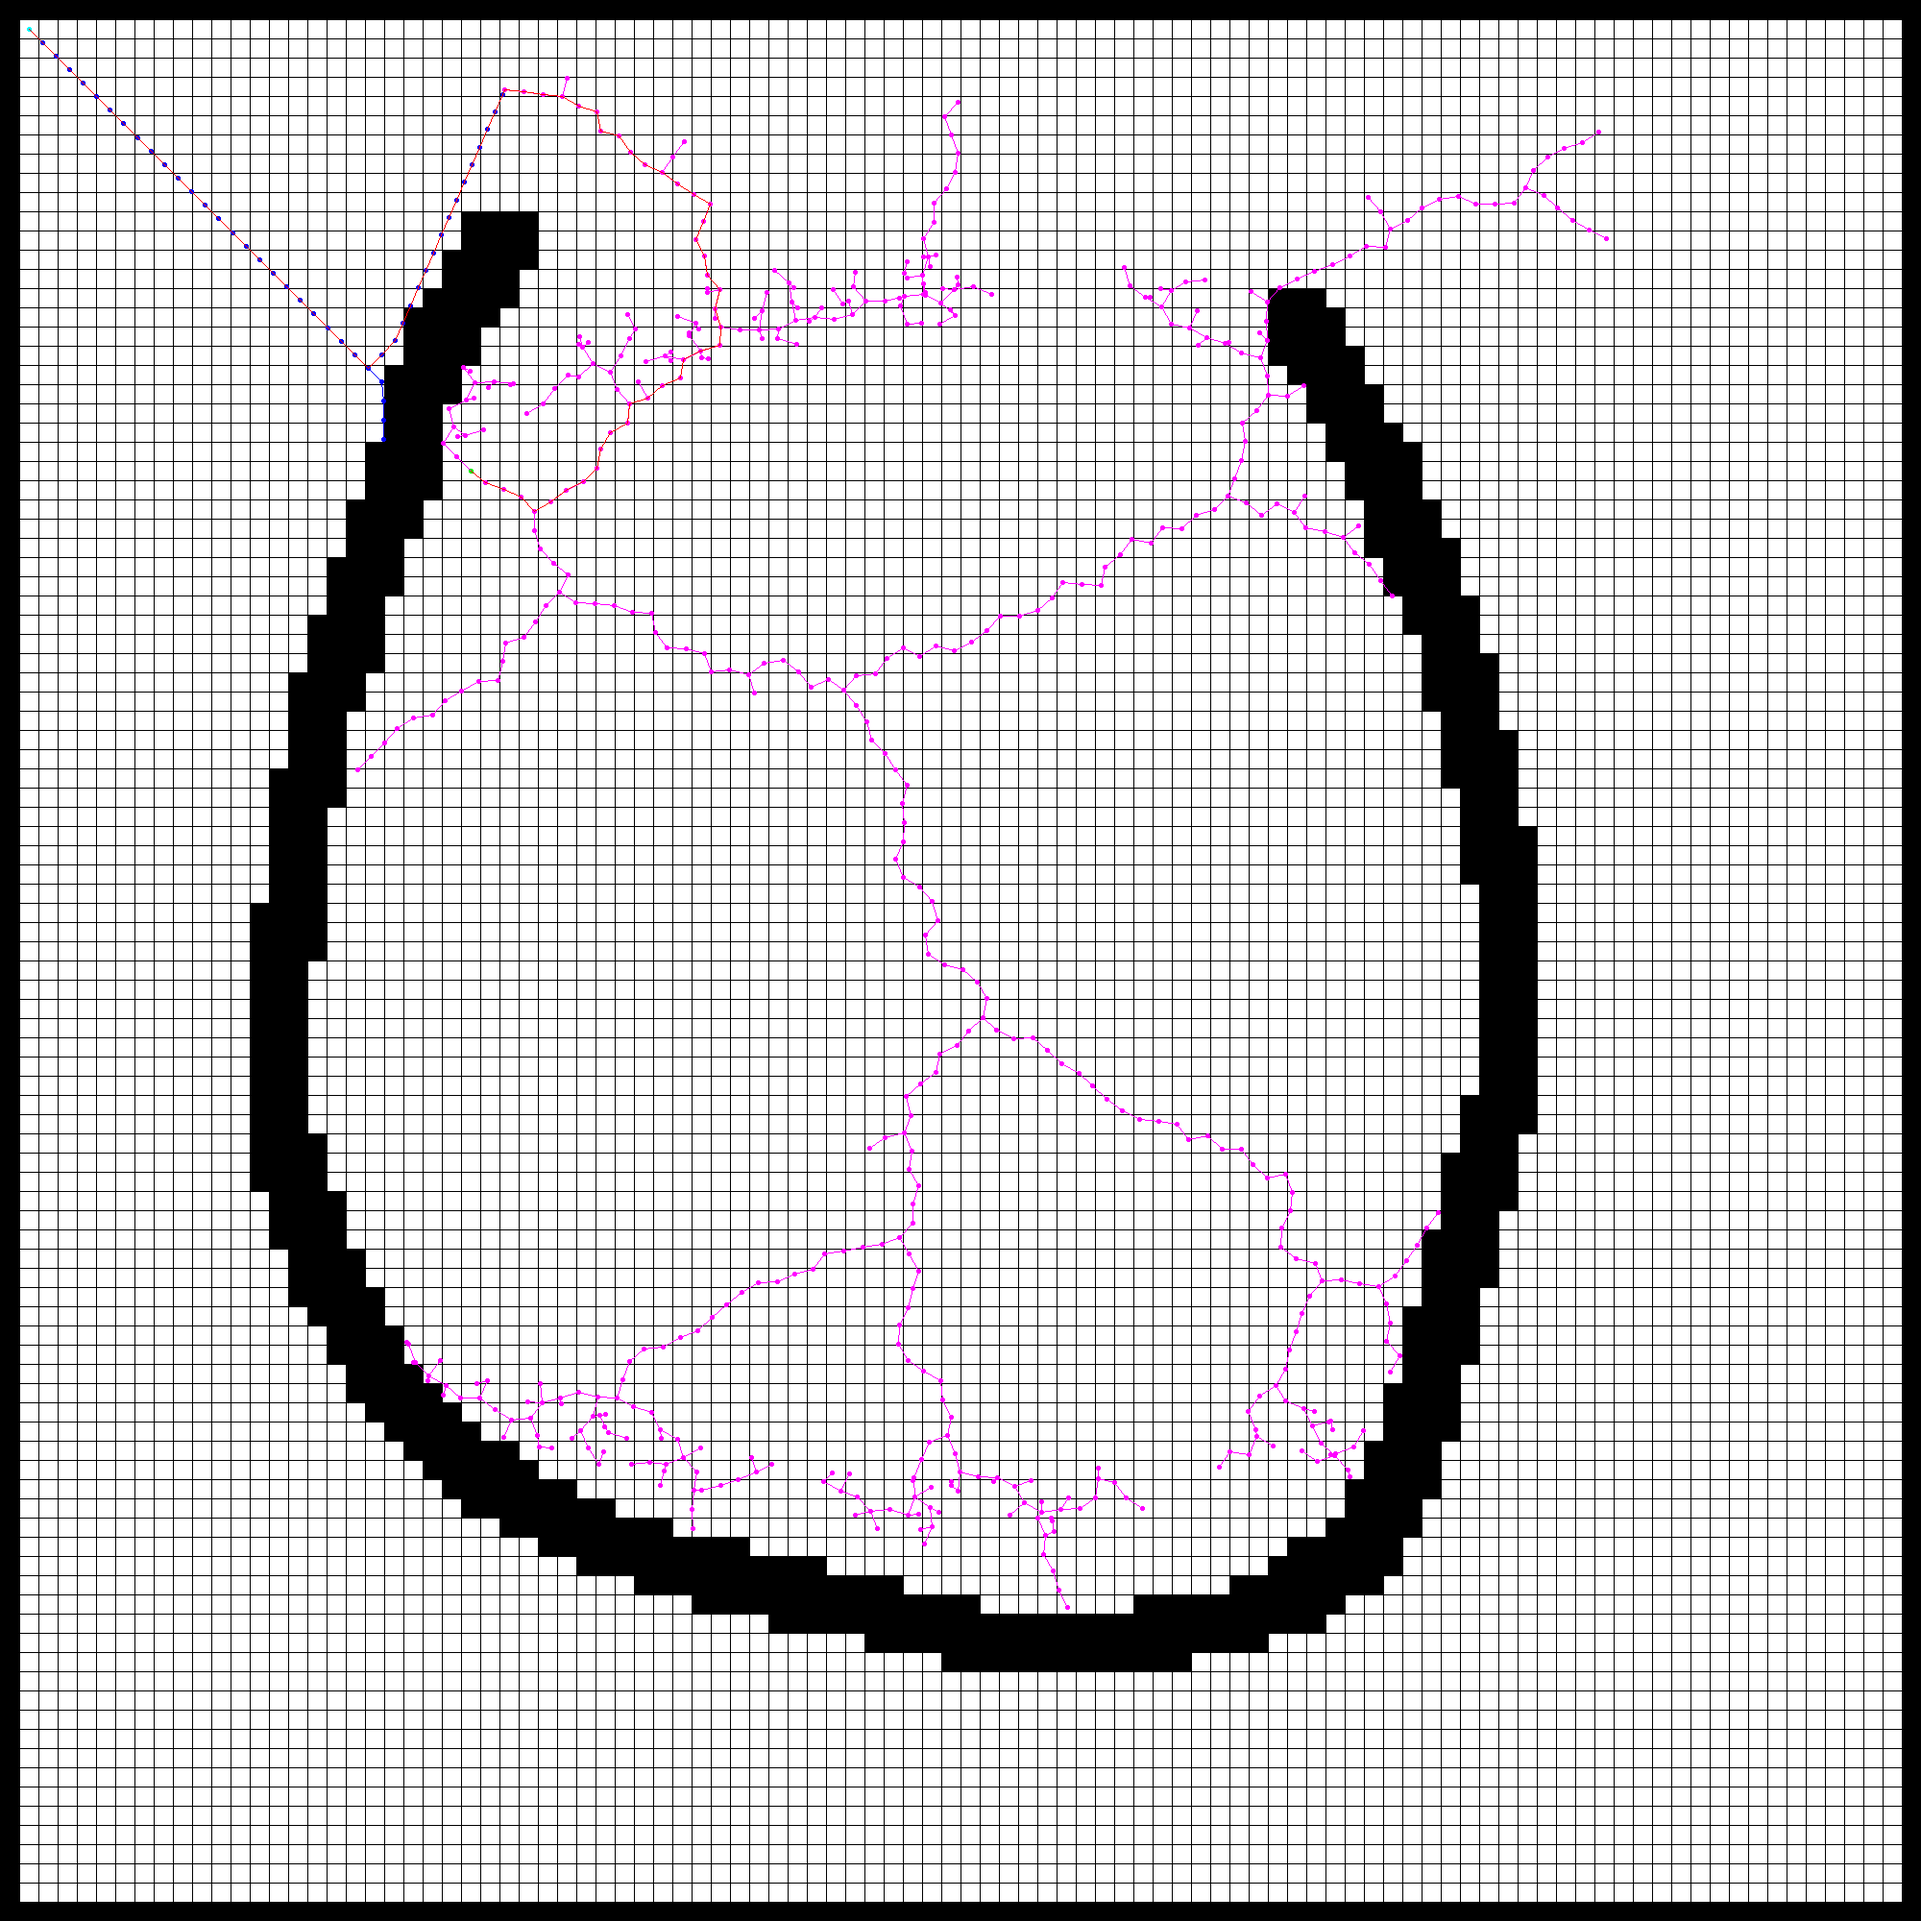
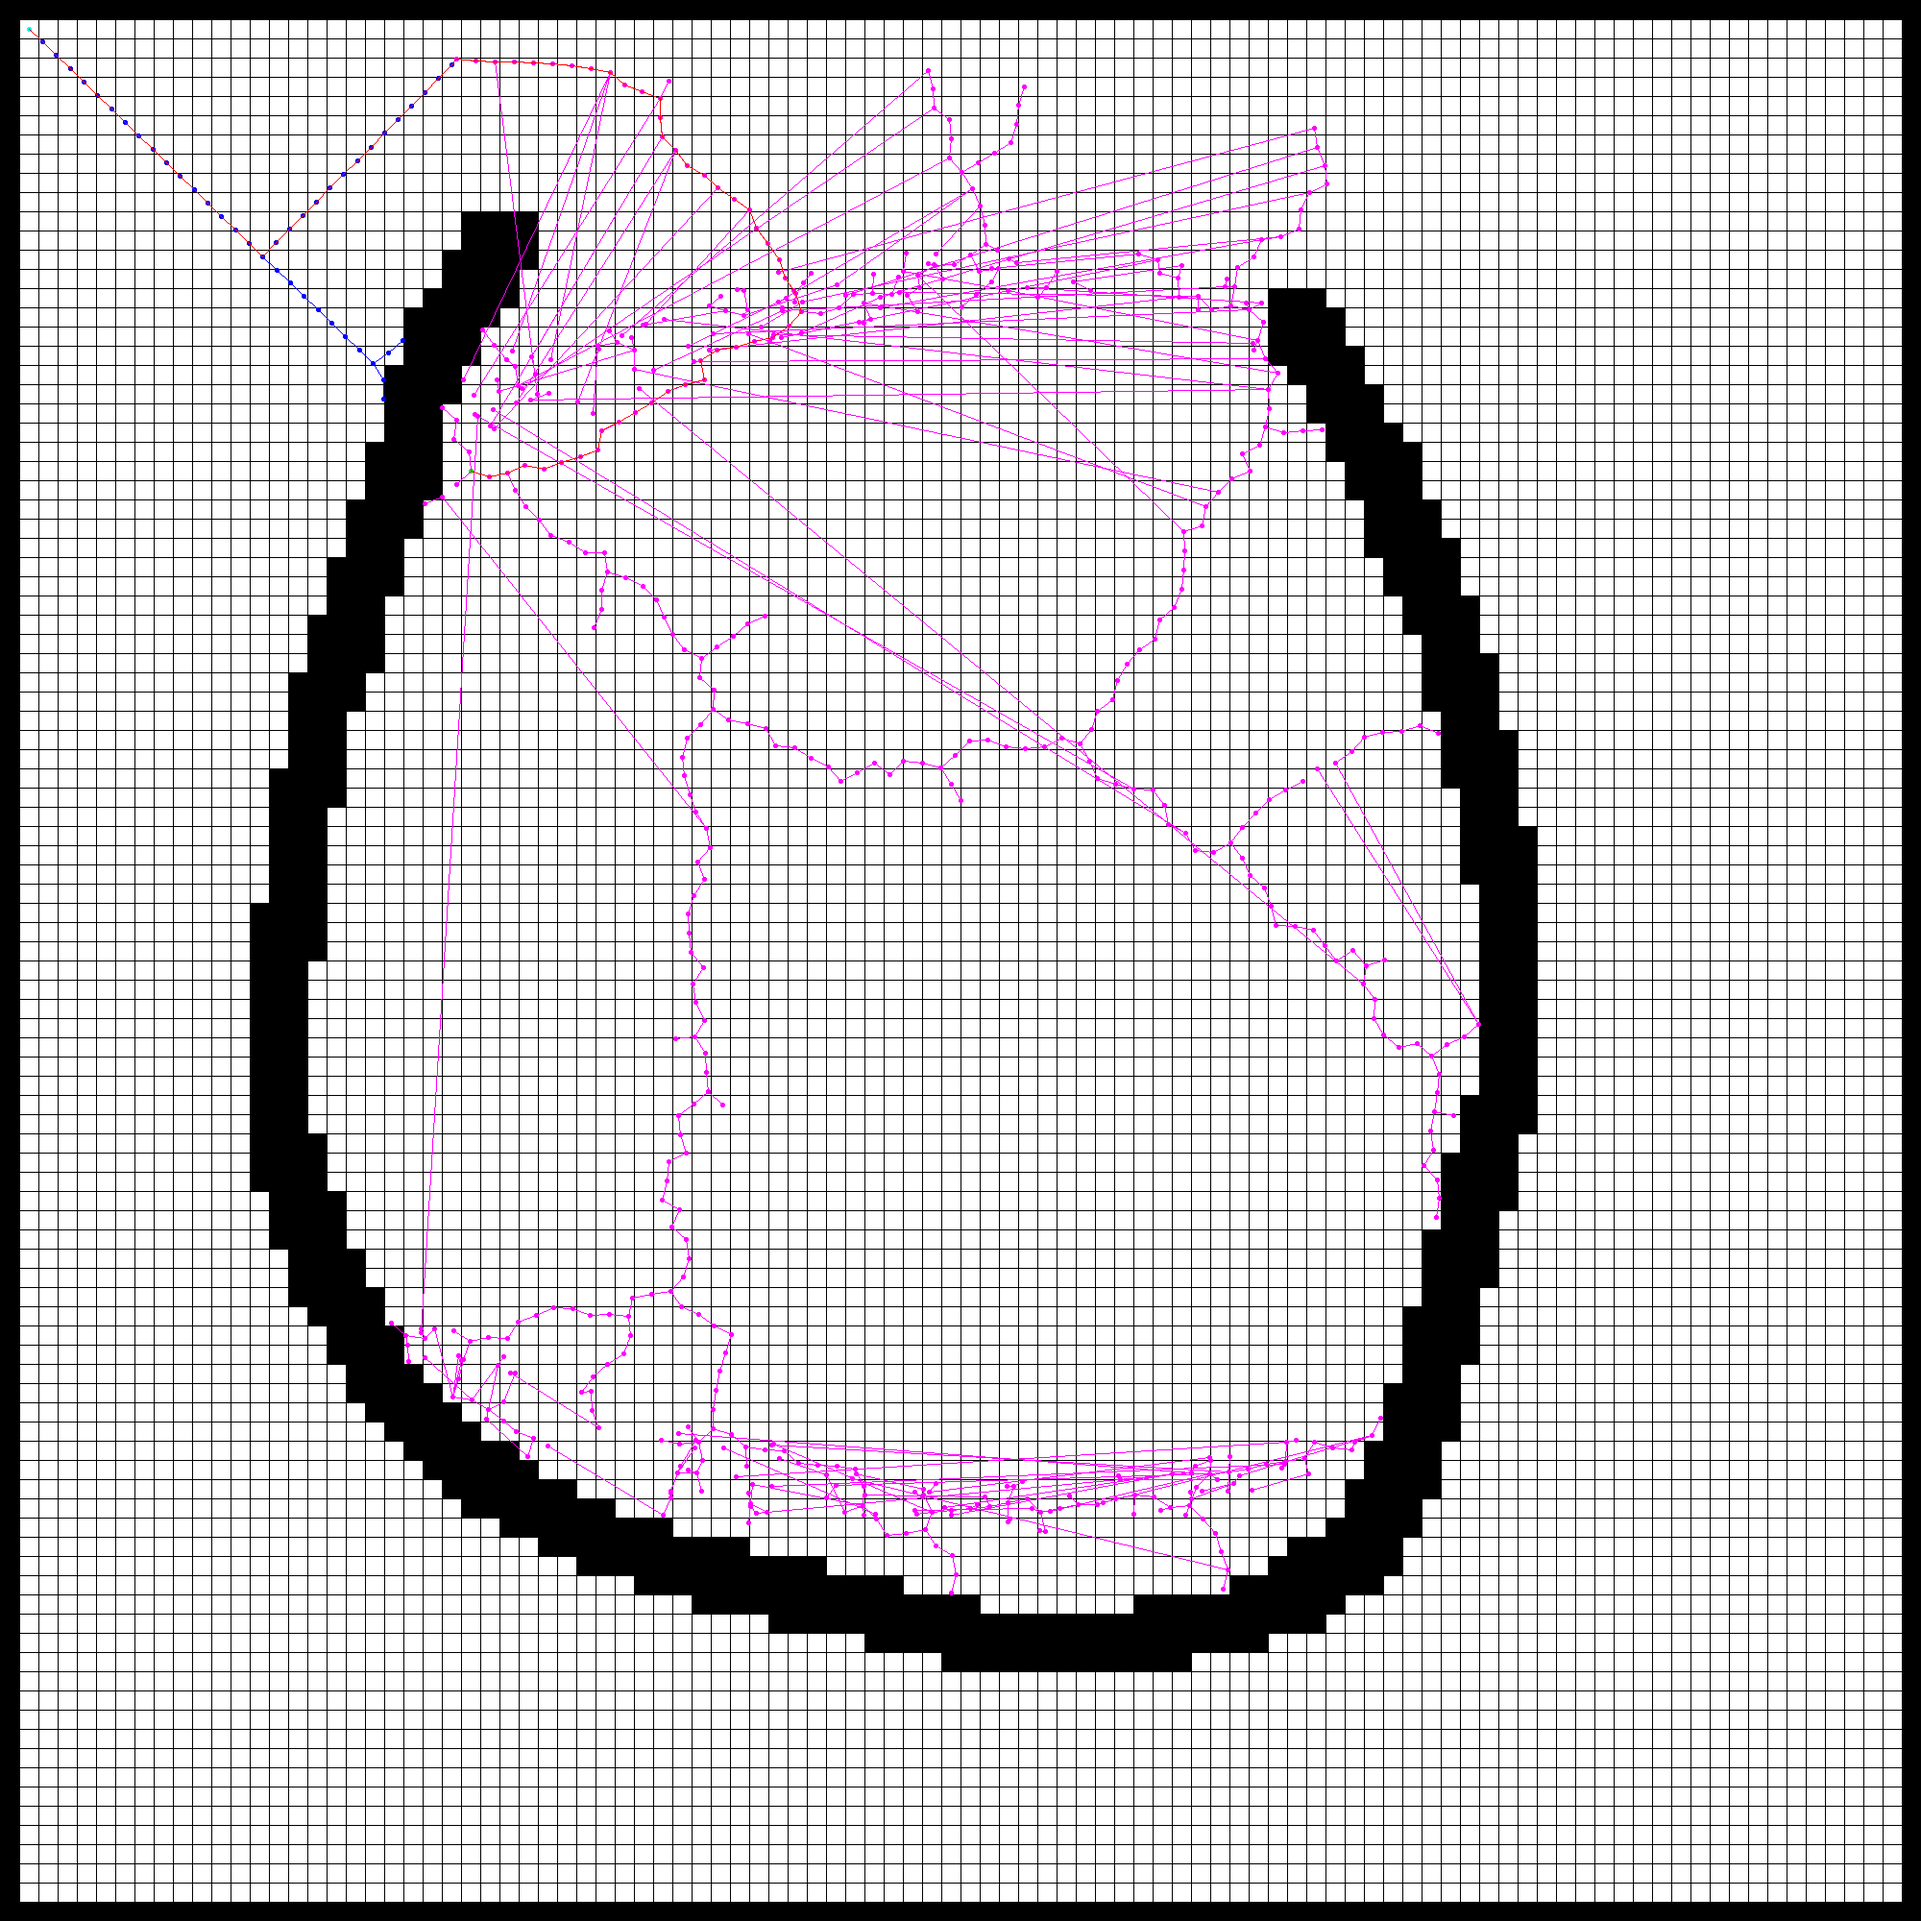
Output time elapsed

Changed region(s): [[0.248, 0.124, 0.651, 0.217], [0.341, 0.744, 0.713, 0.806], [0.248, 0.713, 0.279, 0.744]]

diff --git a/rrt.py b/rrt.py
@@ -22,7 +22,7 @@ class RRT:
     nodes_start_tree = []
     nodes_goal_tree = []
 
-    def __init__(self, path_to_map, coords_start, coords_end, step_size):
+    def __init__(self, path_to_map, use_rrt, coords_start, coords_end, step_size):
         self.image = Image.open(path_to_map)
         self.map = scipy.ndimage.imread(path_to_map, flatten=True)
         self.root_start = Node(coords_start[0], coords_start[1])
@@ -37,6 +37,9 @@ class RRT:
 
         self.cost_total = 0
         self.path_total = []
+        self.success = False
+
+        self.use_rrt = use_rrt
 
     def dist_euclidean(self, point_a, point_b):
         return math.sqrt(math.pow(point_b[0] - point_a[0], 2) + math.pow(point_b[1] - point_a[1], 2))
@@ -71,7 +74,7 @@ class RRT:
             new_position_x = current_node.x + self.step_size*(target_position[0] - current_node.x)/distance_to_target
             new_position_y = current_node.y + self.step_size*(target_position[1] - current_node.y)/distance_to_target
         closer_node = None
-        if self.check_if_obstacle_free((new_position_x, new_position_y)) and self.node_count < self.num_nodes:
+        if self.check_if_obstacle_free((current_node.x, current_node.y), (new_position_x, new_position_y)) and self.node_count < self.num_nodes:
             closer_node = Node(new_position_x, new_position_y)
 
             # print("Closer node: " + str((closer_node.x, closer_node.y)))
@@ -81,7 +84,7 @@ class RRT:
 
             nodes.append(closer_node)
             self.node_count += 1
-            # self.rewire(nodes, closer_node)
+            self.rewire(nodes, closer_node)
         return closer_node
 
     def do_connect(self, nodes, origin_node, target_node):
@@ -93,7 +96,7 @@ class RRT:
             new_position_x = current_node.x + self.step_size*(target_node.x - origin_node.x)/distance_from_origin
             new_position_y = current_node.y + self.step_size*(target_node.y - origin_node.y)/distance_from_origin
 
-            if self.check_if_obstacle_free((new_position_x, new_position_y)):
+            if self.check_if_obstacle_free((current_node.x, current_node.y), (new_position_x, new_position_y)):
                 closer_node = Node(new_position_x, new_position_y)
                 self.choose_parent(nodes, current_node, closer_node)
                 nodes.append(closer_node)
@@ -127,7 +130,17 @@ class RRT:
     def get_near_nodes(self, point, count):
         return NotImplemented
 
-    def check_if_obstacle_free(self, point_b):
+    def check_if_obstacle_free(self, point_a, point_b):
+        # x_min = point_a[0]
+        # x_max = point_b[0]
+
+        # slope = (point_b[1] - point_a[1])/(x_max-x_min)
+        # print(slope)
+
+        # x_range = range(int(math.floor(x_min)), int(math.floor(x_max)))
+        # print(x_range)
+        # print(x_min, x_max)
+
         if self.map[int(point_b[1]), int(point_b[0])] > 100:
             print "Free"
             return True
@@ -268,6 +281,8 @@ class RRT:
         self.node_count = 0
         self.num_nodes = num_nodes
 
+        start = time.time()
+
         while self.node_count < self.num_nodes:
             point_random = self.sample()
 
@@ -287,8 +302,10 @@ class RRT:
                     path_total.extend(path_goal_tree)
                     self.cost_total = joint_node_start.cost + joint_node_goal.cost
                     self.path_total = path_total
+                    self.success = True
                     break
-
+        elapsed = time.time() - start
+        return elapsed, self.cost_total
 
     # def do_RRT(self):
     #     V = {x_init}
@@ -302,8 +319,12 @@ class RRT:
 
 if __name__ == "__main__":
     random.seed()
-    solver = RRT("U_turn.gif", (24.5, 24.5), (1.5, 1.5), 1.0)
-    solver.do_RRT(800)
-    # print(solver.find_supercover_squares((0.0, 0.5), (1, 1)))
+
+    solver = RRT("U_turn.gif", False, (24.5, 24.5), (1.5, 1.5), 1.0)
+    time_elapsed, cost = solver.do_RRT(1000)
+    print("Time elapsed: " + str(time_elapsed) + " s\nTotal Cost: " + str(cost))
     solver.draw_tree()
-    print("Total Cost: " + str(solver.cost_total))
+
+    # print("Time elapsed: " + str(elapsed) + " s")
+    # print(solver.find_supercover_squares((0.0, 0.5), (1, 1)))
+    # print("Total Cost: " + str(solver.cost_total))
